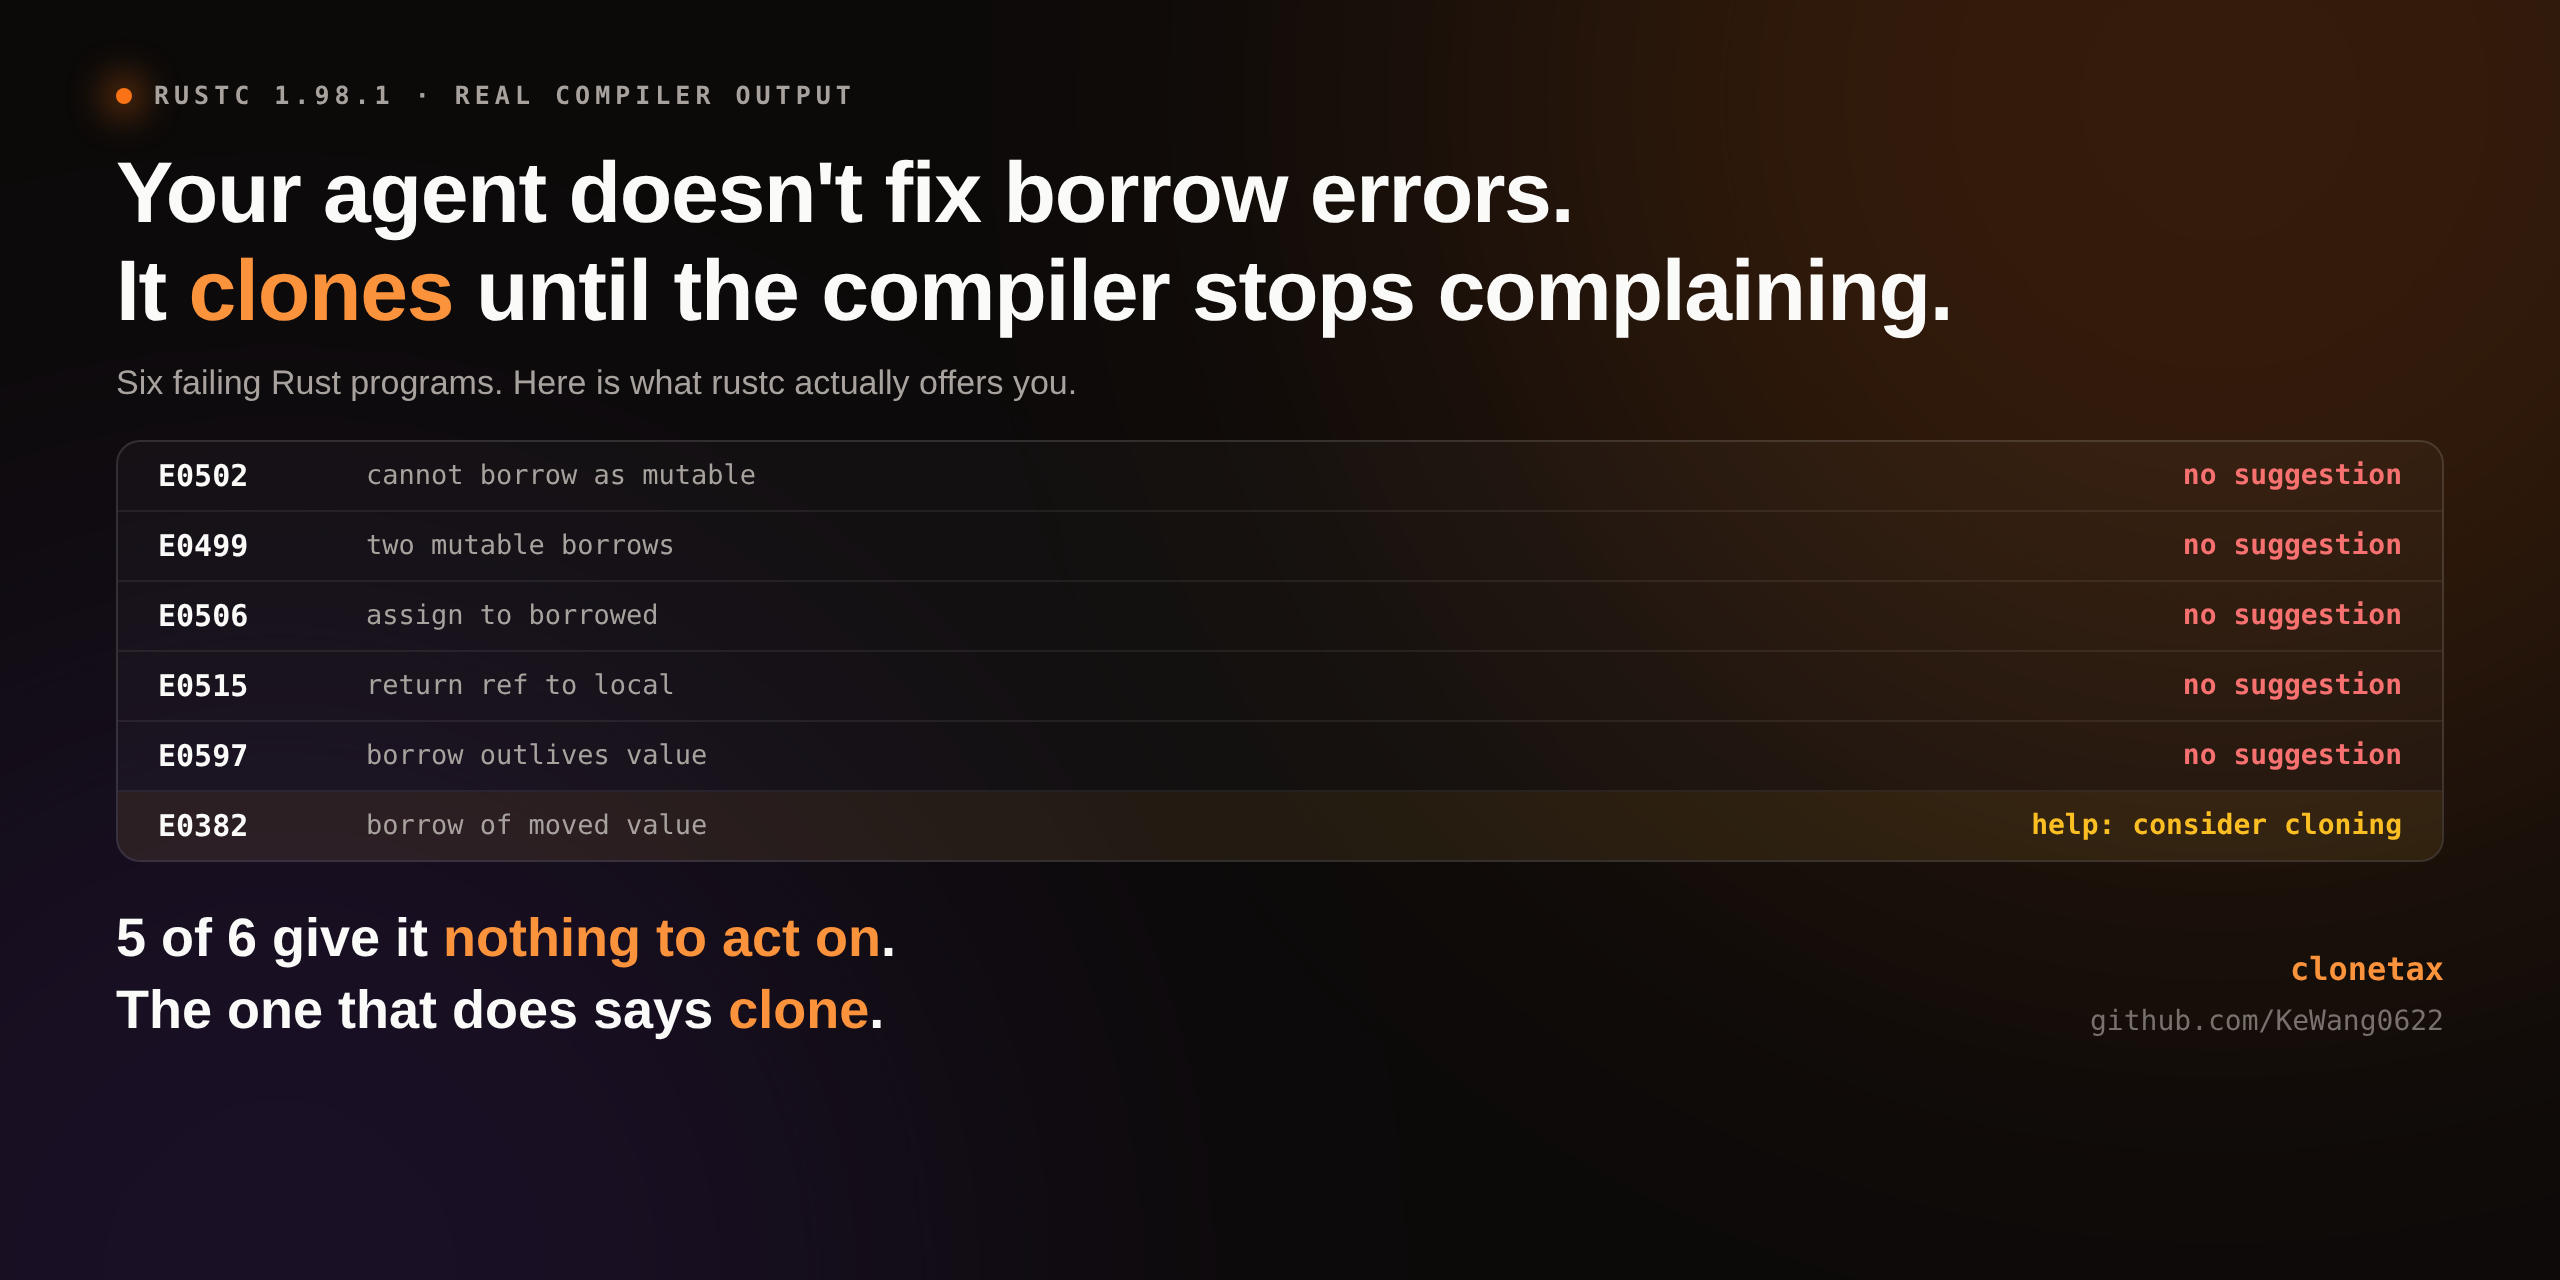
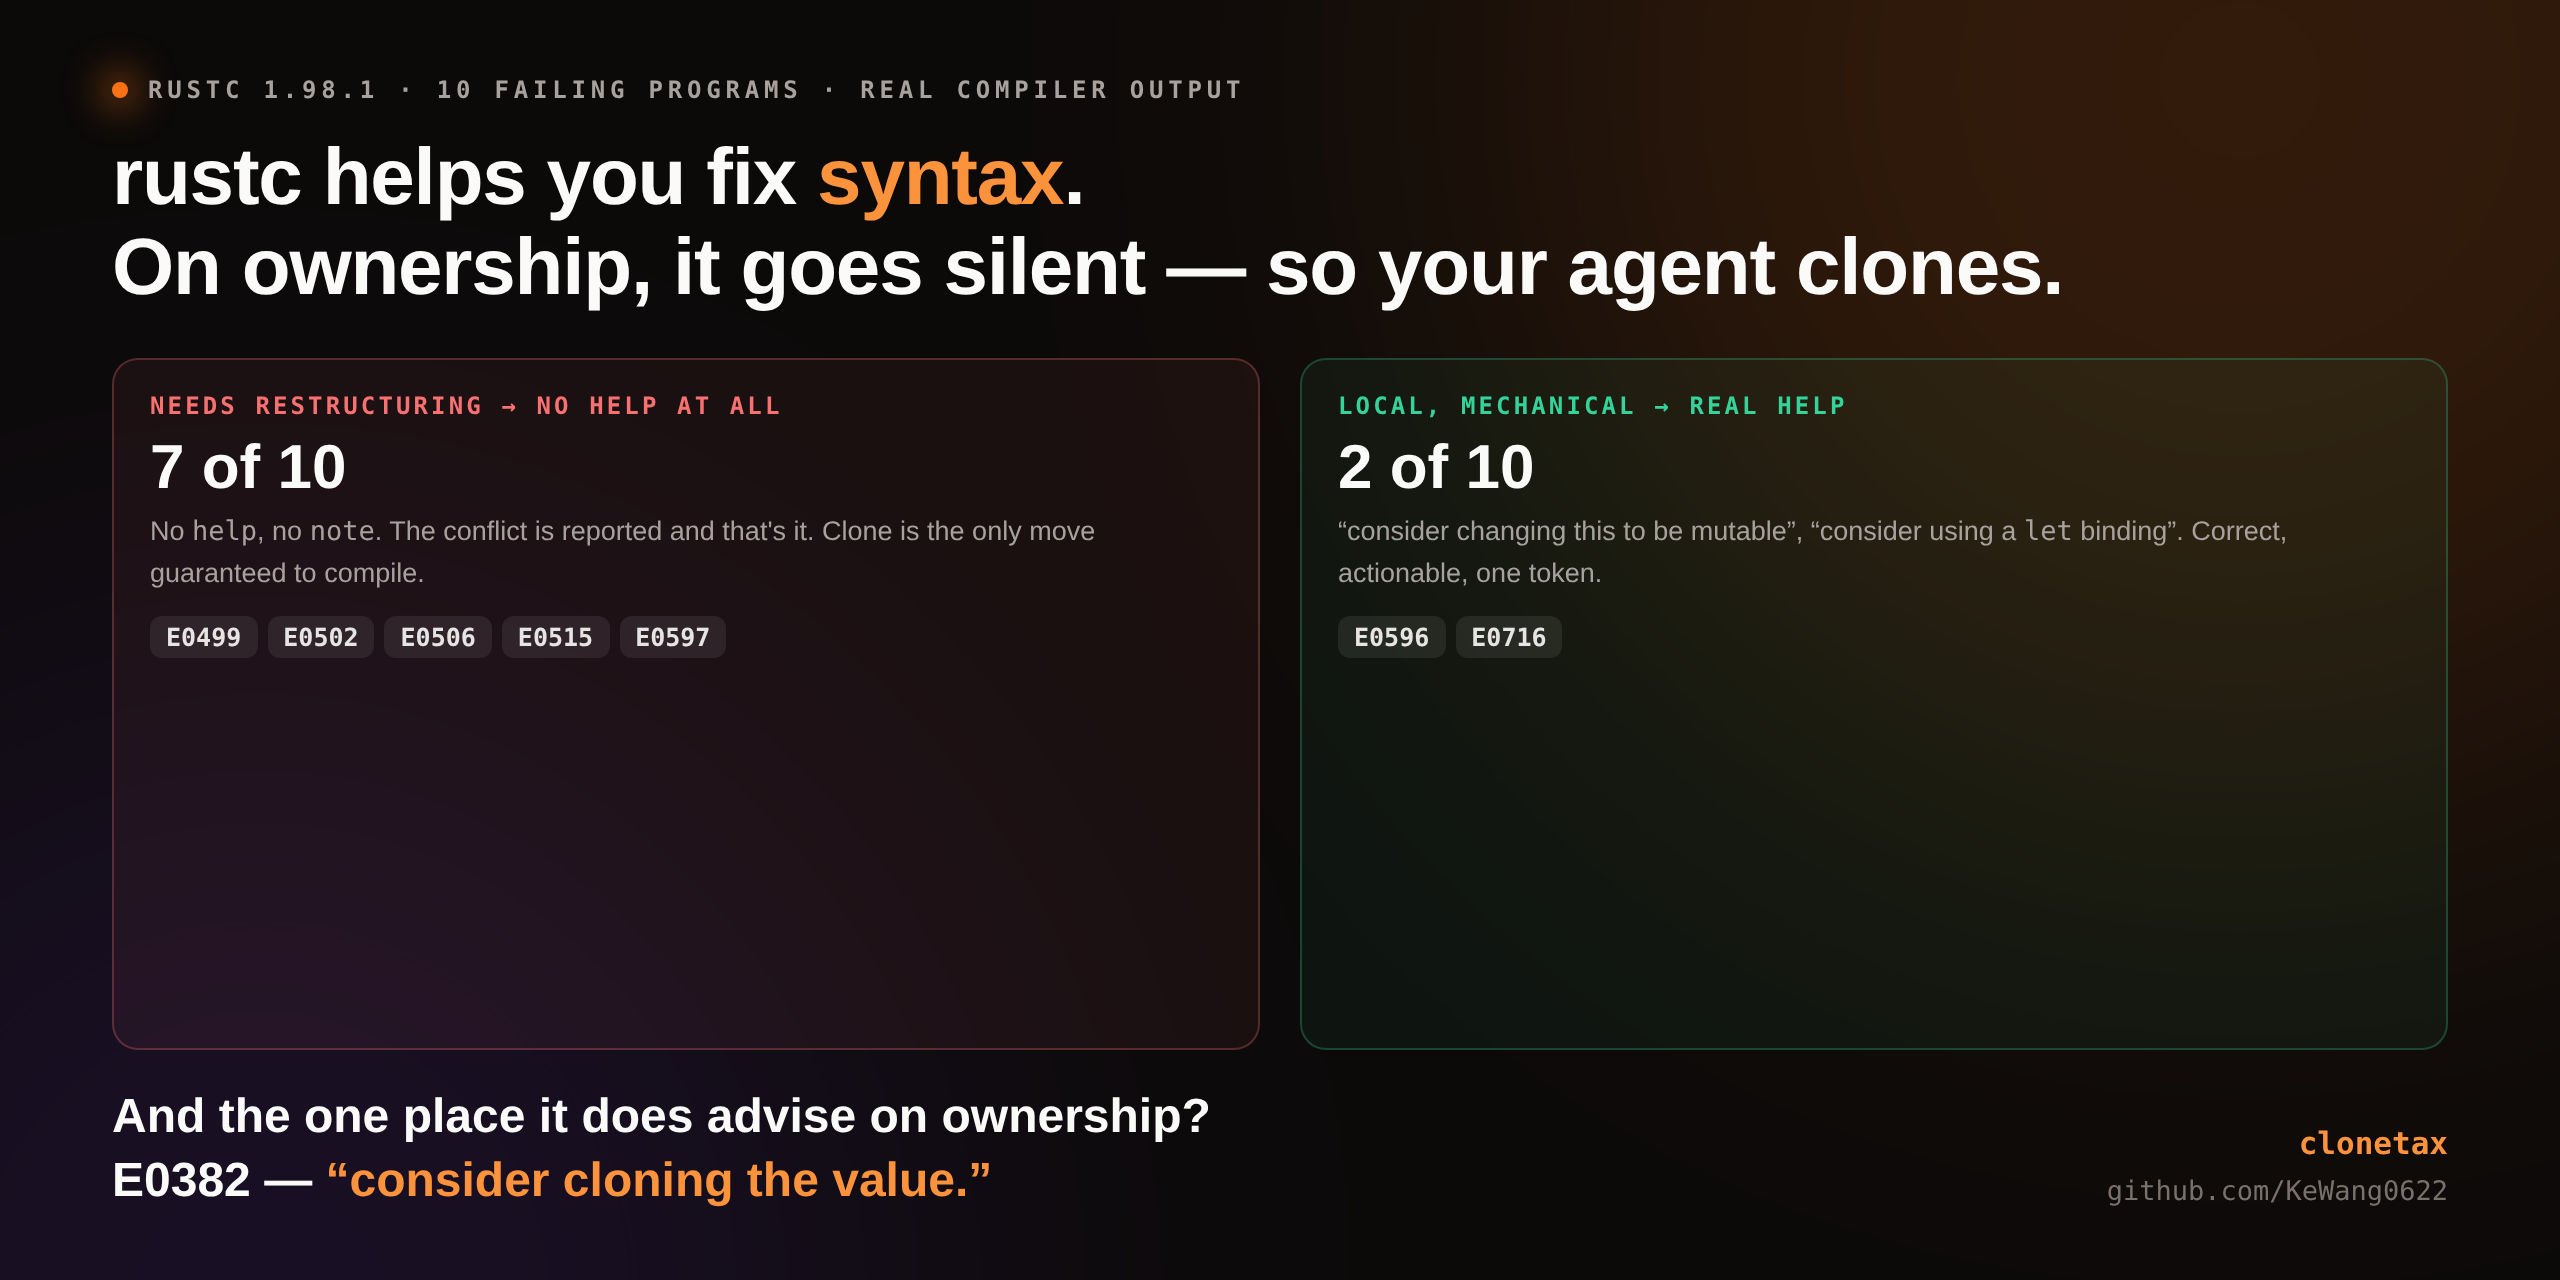
expand corpus to 10 cases and sharpen the finding
Four more cases (iterator invalidation, closure capture, immutable binding,
dropped temporary). With ten cases the pattern is clearer and more honest than
the six-case version: rustc gives correct actionable help on E0596 and E0716 --
syntax fixes, one token each -- and goes completely silent on every case that
needs ownership restructuring. Clone is the only move that always compiles, so
it wins the silent cases by default.

A test now asserts the README headline matches the generated EVIDENCE.md, so
the prose cannot drift from the compiler output.

diff --git a/corpus/e0716-temporary-dropped.rs b/corpus/e0716-temporary-dropped.rs
@@ -1,0 +1,8 @@
+// A reference into a temporary that is dropped at the end of the statement.
+// Lifetime extension does not apply once the borrow passes through a function.
+fn first(v: &Vec<i32>) -> &i32 { &v[0] }
+
+fn main() {
+    let r = first(&vec![1, 2, 3]);
+    println!("{}", r);
+}

diff --git a/corpus/e0502-iterator-invalidation.rs b/corpus/e0502-iterator-invalidation.rs
@@ -1,0 +1,10 @@
+// Iterating a vector while pushing to it — the classic invalidation shape.
+fn main() {
+    let mut items = vec![1, 2, 3];
+    for x in &items {
+        if *x == 2 {
+            items.push(99);
+        }
+    }
+    println!("{:?}", items);
+}

diff --git a/corpus/e0500-closure-conflict.rs b/corpus/e0500-closure-conflict.rs
@@ -1,0 +1,7 @@
+// A closure holds a mutable borrow while the same value is borrowed again.
+fn main() {
+    let mut total = 0;
+    let mut add = |x: i32| total += x;
+    println!("{}", total);
+    add(5);
+}

diff --git a/corpus/e0596-borrow-immutable-as-mutable.rs b/corpus/e0596-borrow-immutable-as-mutable.rs
@@ -1,0 +1,6 @@
+// Mutating through an immutable binding.
+fn main() {
+    let data = vec![1, 2, 3];
+    let r = &mut data;
+    r.push(4);
+}

diff --git a/EVIDENCE.md b/EVIDENCE.md
@@ -1,7 +1,7 @@
 # EVIDENCE — what the compiler actually says
 
 > Generated by `node scripts/extract.mjs`. Do not edit by hand.
-> Compiler: `rustc 1.98.1 (48a229cea 2026-09-01)` · edition 2021 · 6 corpus programs
+> Compiler: `rustc 1.98.1 (48a229cea 2026-09-01)` · edition 2021 · 10 corpus programs
 
 Every claim in this repository is produced by compiling the programs in `corpus/`
 and reading `rustc --error-format=json`. CI recompiles them and fails if this file
@@ -9,10 +9,10 @@ drifts, so nothing here can quietly go stale.
 
 ## Headline finding
 
-On **5 of 6** corpus cases rustc offers the agent **no actionable
+On **7 of 10** corpus cases rustc offers the agent **no actionable
 suggestion at all** — no `help`, no `note`. It reports the conflict and stops.
 
-On **1 of 6**, the only `help` rustc gives is *"consider cloning the
+On **1 of 10**, the only `help` rustc gives is *"consider cloning the
 value"*. `help` is the compiler's recommended action.
 
 So an agent that follows the compiler faithfully gets nothing to act on in most
@@ -121,3 +121,71 @@ _rustc offered no `help`/`note` suggestion for this one._
 **Correct fix.** Restructure so the value outlives the reference; only reach for Rc/RefCell when sharing is genuinely required.
 
 **Does clippy catch it?** No. RefCell misuse surfaces as a runtime BorrowMutError, not a lint.
+
+## `e0502-iterator-invalidation.rs`
+
+**Scenario.** Iterating a collection while mutating it.
+
+**Compiler says** — `E0502`: cannot borrow `items` as mutable because it is also borrowed as immutable
+
+_rustc offered no `help`/`note` suggestion for this one._
+
+**What agents reach for.** Clone the collection and iterate the copy while mutating the original.
+
+**Why that is wrong.** Elements pushed during the loop are never visited, and any logic that assumed it was reading the live collection now reads a snapshot. Compiles, passes a naive test, wrong.
+
+**Correct fix.** Collect the indices or new items first, then apply them after the loop ends.
+
+**Does clippy catch it?** No. Both the clone and the original are used, so redundant_clone stays silent.
+
+## `e0500-closure-conflict.rs`
+
+**Scenario.** A closure captures a value mutably while it is also borrowed elsewhere.
+
+**Compiler says** — `E0502`: cannot borrow `total` as immutable because it is also borrowed as mutable
+
+_rustc offered no `help`/`note` suggestion for this one._
+
+**What agents reach for.** Make the closure `move` and clone the captured value in.
+
+**Why that is wrong.** The closure now mutates its own copy; the caller's value never changes. This is the single most common silent-wrongness in agent-written closure code.
+
+**Correct fix.** Narrow the closure's scope so the capture ends before the other use, or pass the value as a parameter.
+
+**Does clippy catch it?** No. A `move` closure cloning its capture is idiomatic in other contexts, so no lint fires.
+
+## `e0596-borrow-immutable-as-mutable.rs`
+
+**Scenario.** Taking a mutable reference to an immutable binding.
+
+**Compiler says** — `E0596`: cannot borrow `data` as mutable, as it is not declared as mutable
+
+| rank | level | suggestion |
+|---|---|---|
+| 1 | `help` | consider changing this to be mutable |
+
+**What agents reach for.** Clone into a new `mut` binding.
+
+**Why that is wrong.** The mutation lands on the copy; the original is unchanged and any later read of it is stale.
+
+**Correct fix.** Declare the binding `mut`. This one is almost always a one-word fix.
+
+**Does clippy catch it?** No. Not a waste lint — the clone is used.
+
+## `e0716-temporary-dropped.rs`
+
+**Scenario.** A reference into a temporary that is dropped at the end of the statement.
+
+**Compiler says** — `E0716`: temporary value dropped while borrowed
+
+| rank | level | suggestion |
+|---|---|---|
+| 1 | `help` | consider using a `let` binding to create a longer lived value |
+
+**What agents reach for.** Clone the temporary, or bind it with `Box::leak` to get 'static.
+
+**Why that is wrong.** Box::leak makes the allocation permanent — a real leak that compiles and passes tests.
+
+**Correct fix.** Bind the temporary to a named local first so it lives long enough.
+
+**Does clippy catch it?** No. Box::leak is legitimate elsewhere; no lint distinguishes the cases.

diff --git a/README.md b/README.md
@@ -2,22 +2,35 @@
 
 **Your coding agent doesn't fix borrow errors. It clones until the compiler stops complaining. Here is the compiler output that proves why.**
 
-Six Rust programs that fail to compile. Compiled with a real `rustc`, output read from
+Ten Rust programs that fail to compile. Compiled with a real `rustc`, output read from
 `--error-format=json`:
 
 | corpus case | rustc says | what it offers you |
 |---|---|---|
 | `e0502-cache-lookup.rs` | E0502 cannot borrow `*cache` as mutable | **nothing** |
-| `e0382-use-after-move.rs` | E0382 borrow of moved value | `help`: *consider cloning the value* |
 | `e0499-two-mut-borrows.rs` | E0499 cannot borrow `v` as mutable more than once | **nothing** |
 | `e0506-assign-to-borrowed.rs` | E0506 cannot assign to `cfg.retries` | **nothing** |
 | `e0515-return-local-ref.rs` | E0515 cannot return reference to local | **nothing** |
 | `e0597-borrow-outlives.rs` | E0597 `inner` does not live long enough | **nothing** |
+| `e0502-iterator-invalidation.rs` | E0502 cannot borrow `items` as mutable | **nothing** |
+| `e0500-closure-conflict.rs` | E0502 cannot borrow `total` as immutable | **nothing** |
+| `e0382-use-after-move.rs` | E0382 borrow of moved value | `help`: *consider cloning the value* |
+| `e0596-borrow-immutable-as-mutable.rs` | E0596 not declared as mutable | `help`: *consider changing this to be mutable* ✅ |
+| `e0716-temporary-dropped.rs` | E0716 temporary value dropped while borrowed | `help`: *consider using a `let` binding* ✅ |
 
-**5 of 6 give the agent nothing to act on. The one that does says to clone.**
+**7 of 10 give the agent nothing to act on.**
 
-Clone is the move that always compiles. With no other guidance, it becomes the default.
-That is the mechanism behind clone-spam — a guidance vacuum, not laziness.
+Look at which three it does help with. E0596 and E0716 get correct, actionable advice —
+add `mut`, add a `let` binding. Those are *syntax* fixes: local, mechanical, one token.
+E0382 gets advice too, and that advice is to clone.
+
+Every case where the fix requires **restructuring ownership** — E0499, E0502, E0506,
+E0515, E0597 — gets silence. Those are exactly the cases where a clone compiles.
+
+So the compiler is helpful right up to the point where the problem becomes a design
+problem, and then it stops. Clone is the one move that always compiles. With no other
+guidance, it wins by default. That is the mechanism behind clone-spam — a guidance
+vacuum on precisely the hard cases, not laziness.
 
 ## Install
 
